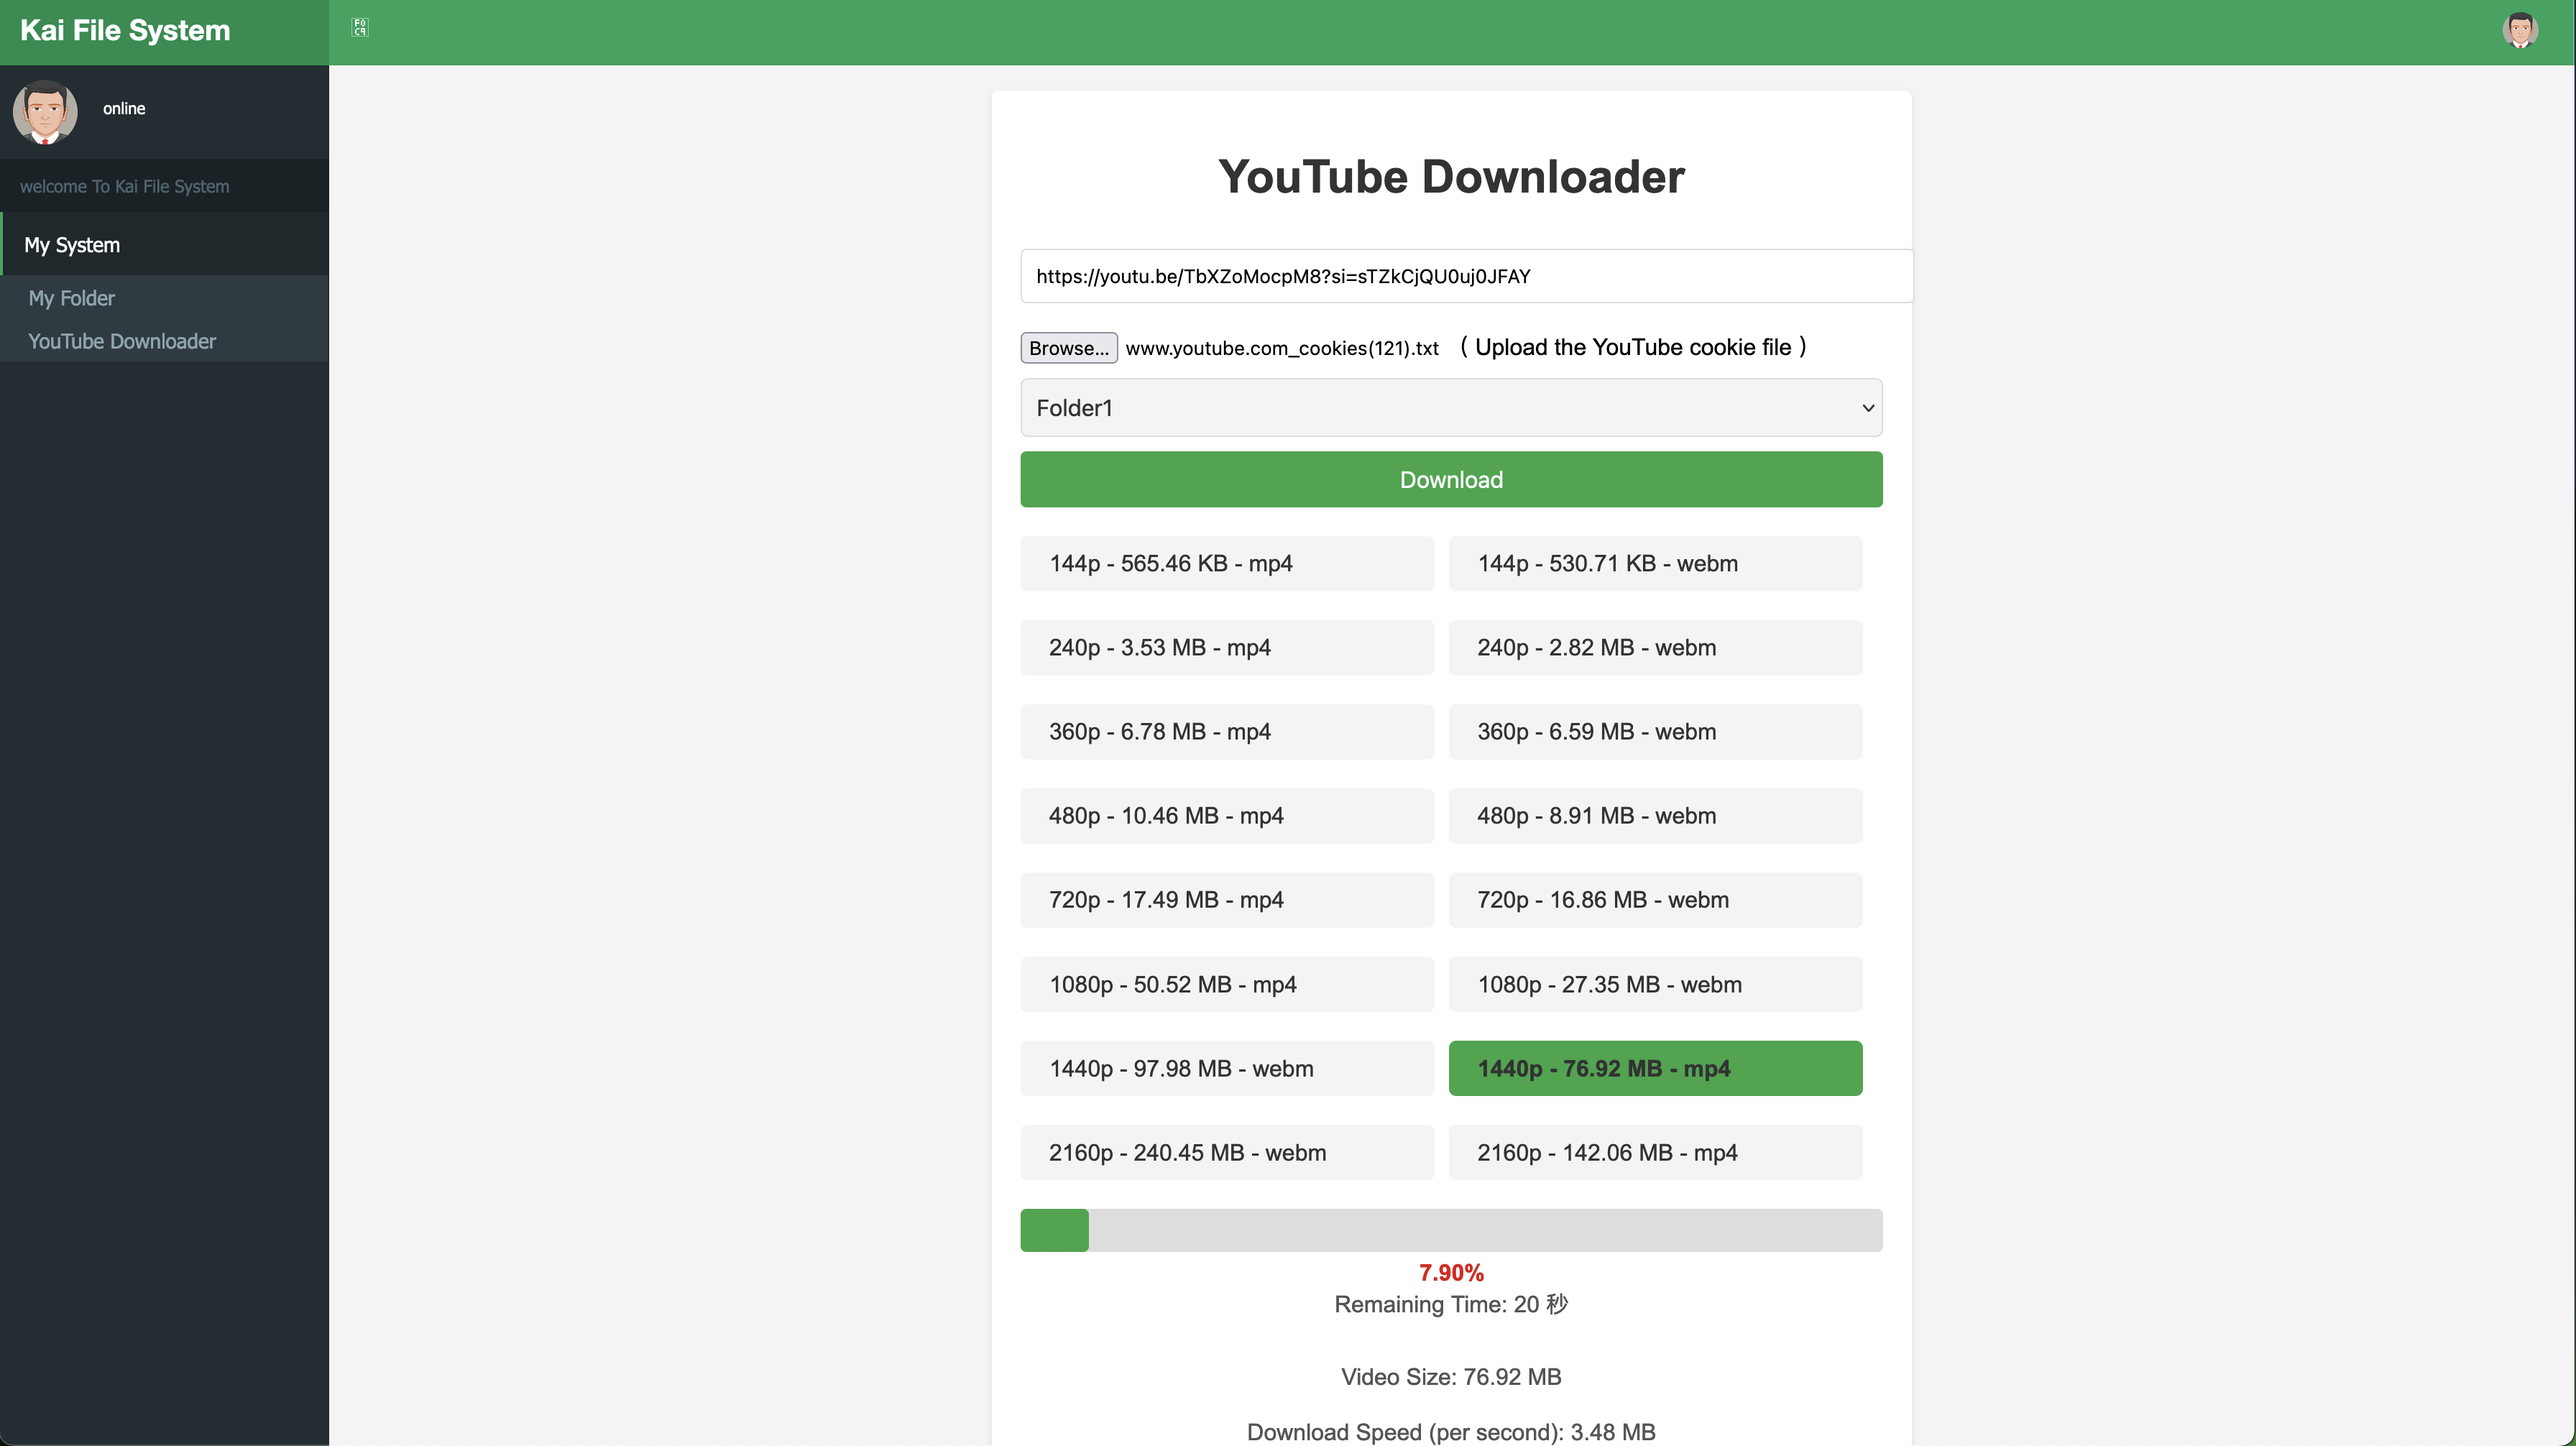
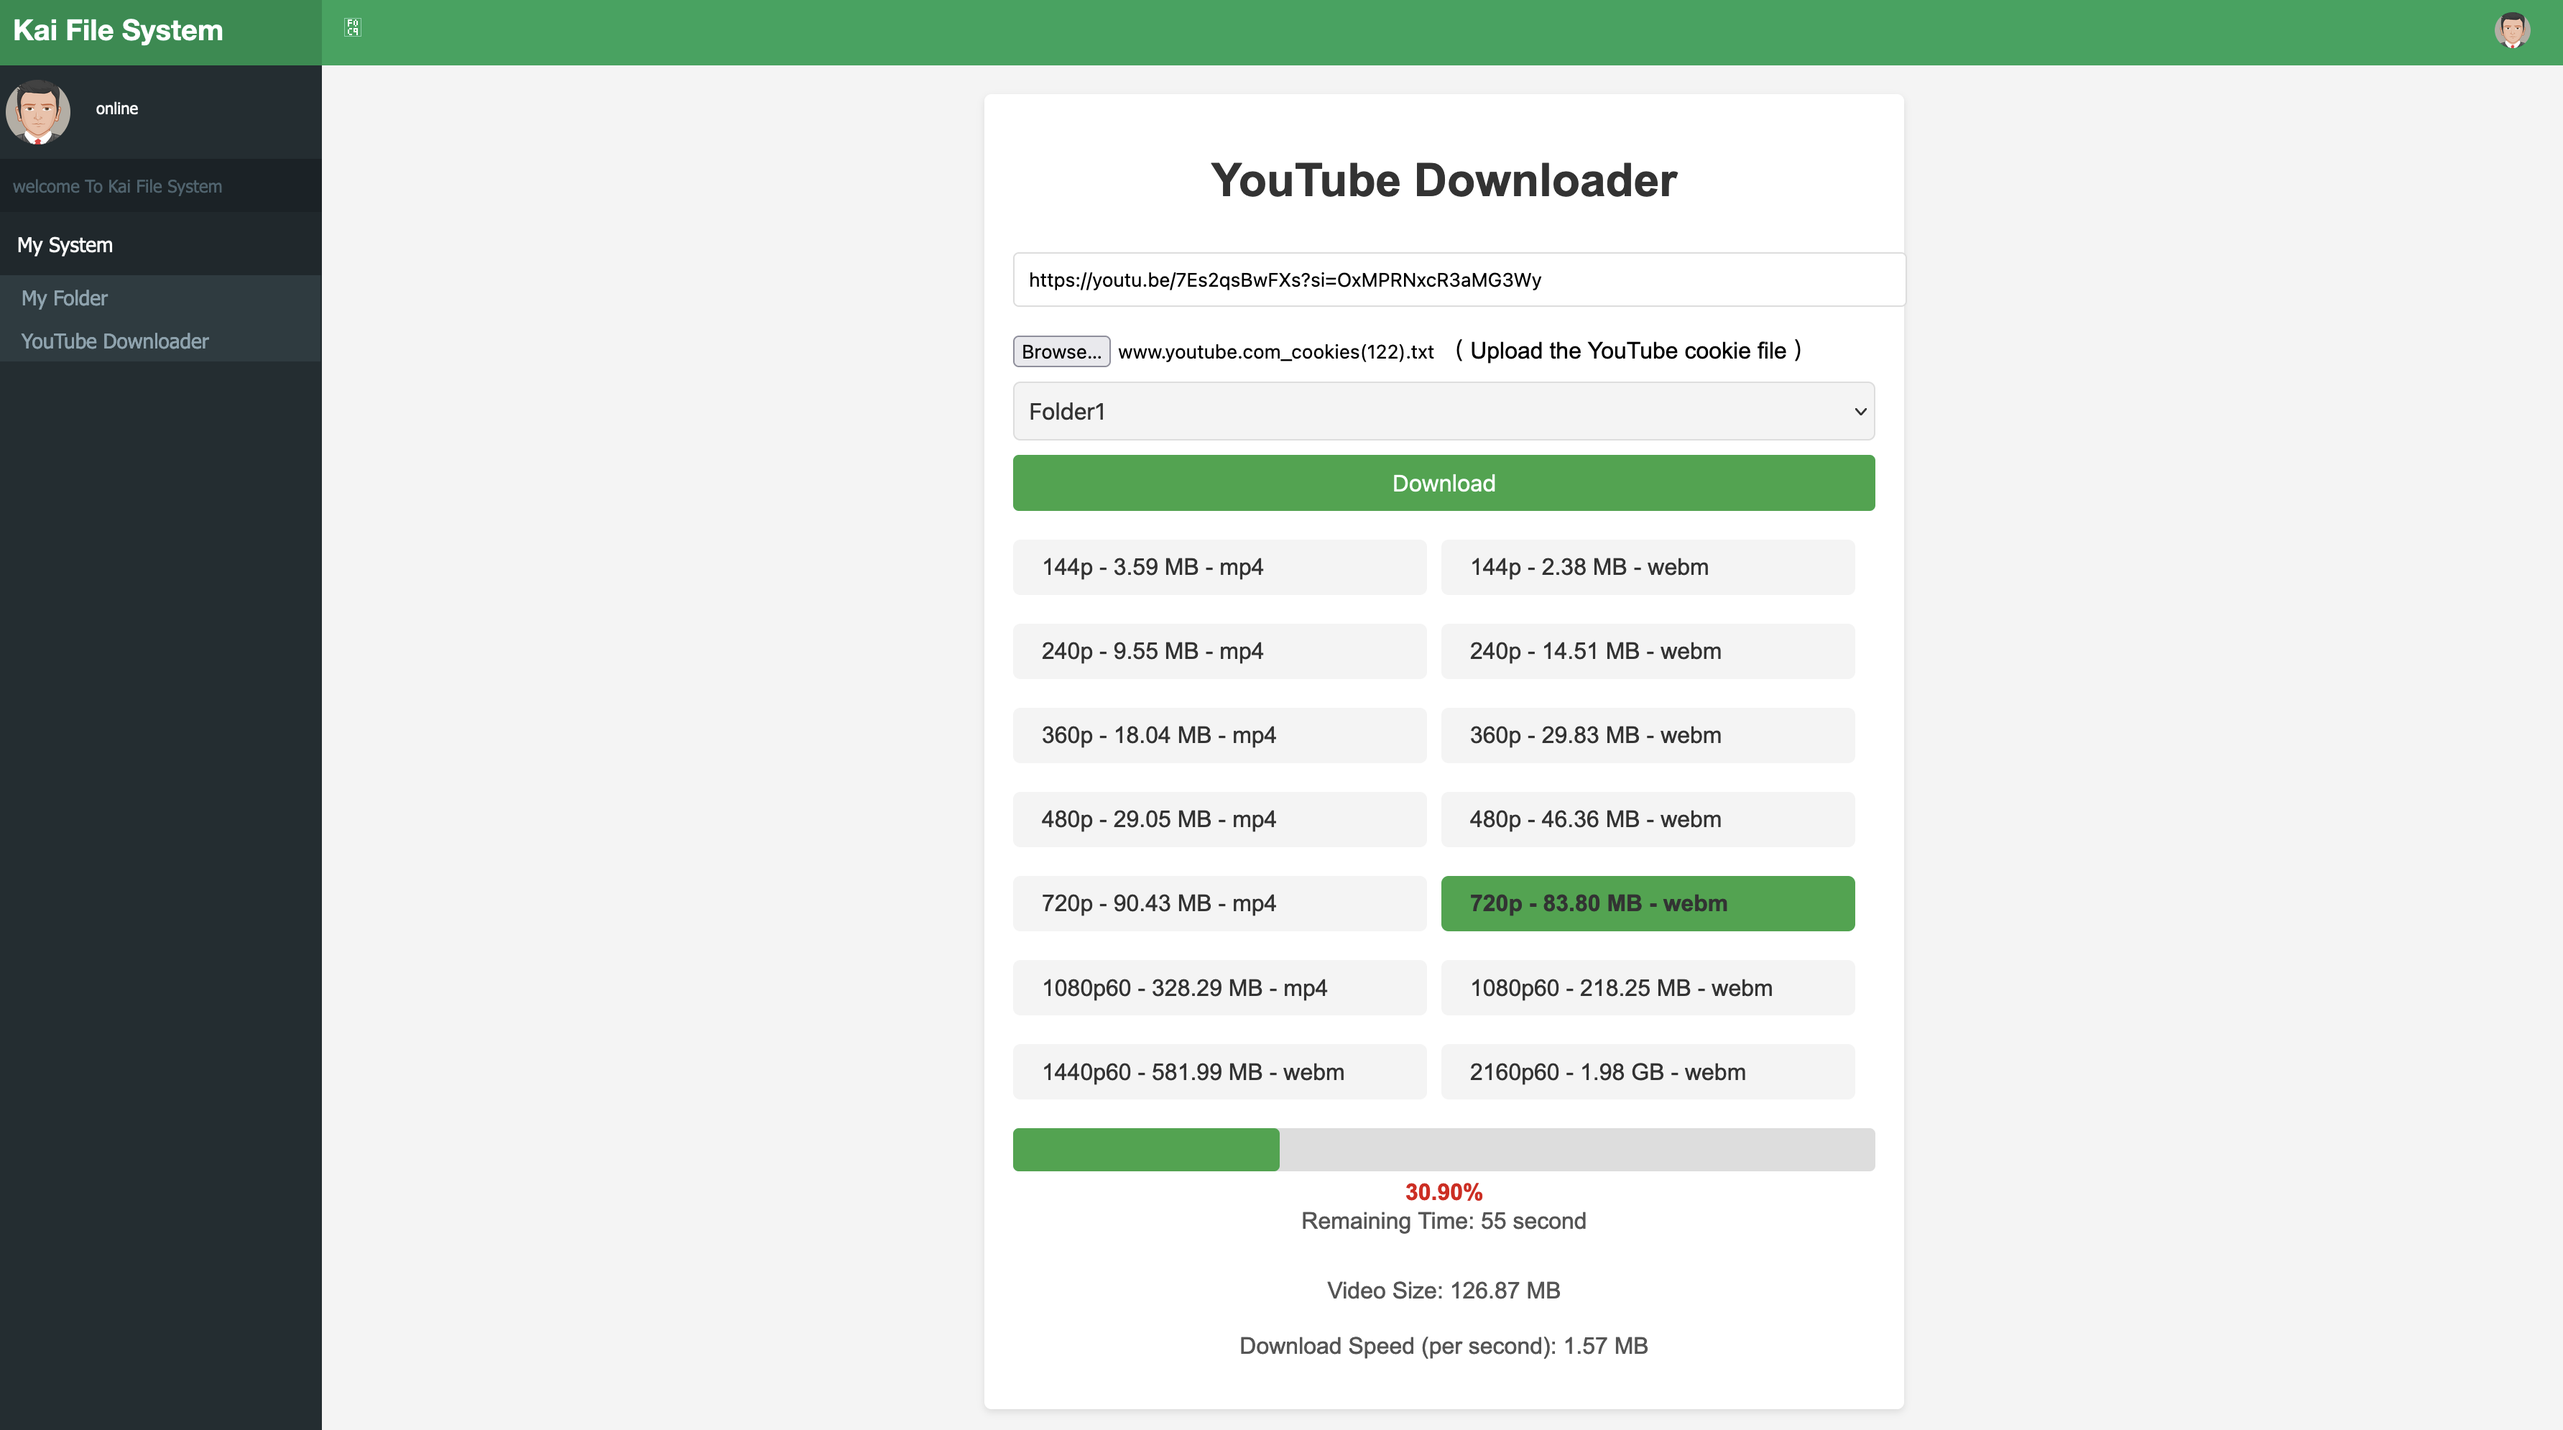
up5

diff --git a/apps/up01/views.py b/apps/up01/views.py
@@ -365,15 +365,15 @@ def progress_hook(d):
             return '未知'
         seconds = int(seconds)
         if seconds < 60:
-            return f"{seconds} 秒"
+            return f"{seconds} second"
         elif seconds < 3600:
             minutes = seconds // 60
             seconds = seconds % 60
-            return f"{minutes} 分 {seconds} 秒"
+            return f"{minutes} minute {seconds} second"
         else:
             hours = seconds // 3600
             minutes = (seconds % 3600) // 60
-            return f"{hours} 小时 {minutes} 分"
+            return f"{hours} hour {minutes} minute"
 
     if d['status'] == 'downloading':
 
